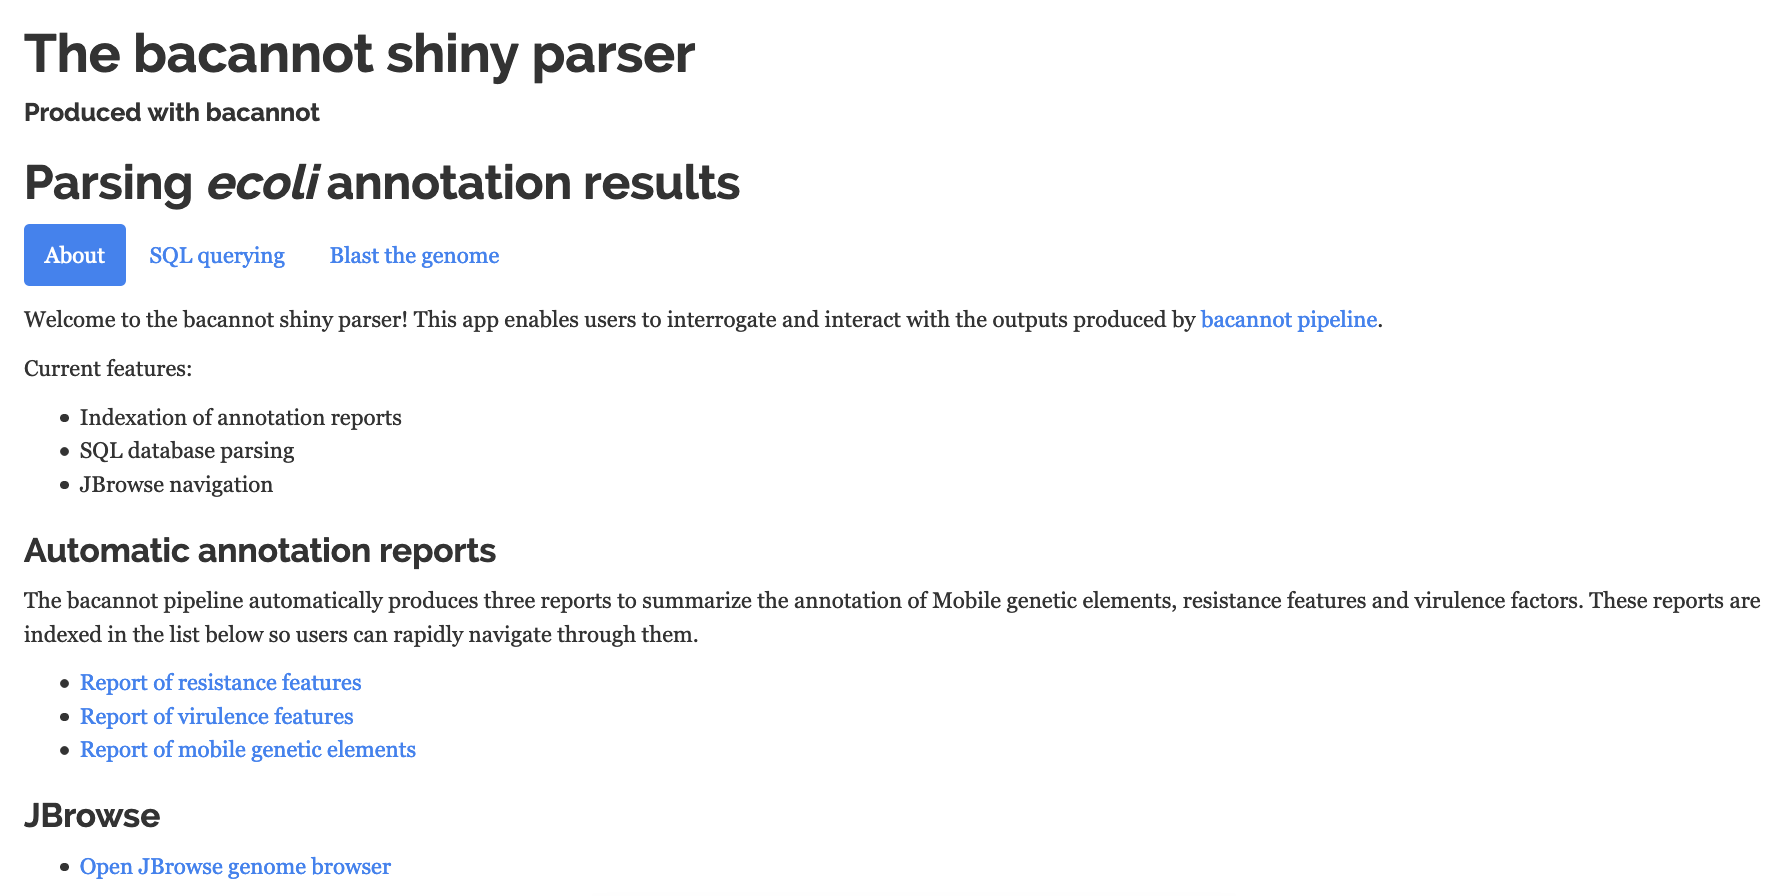
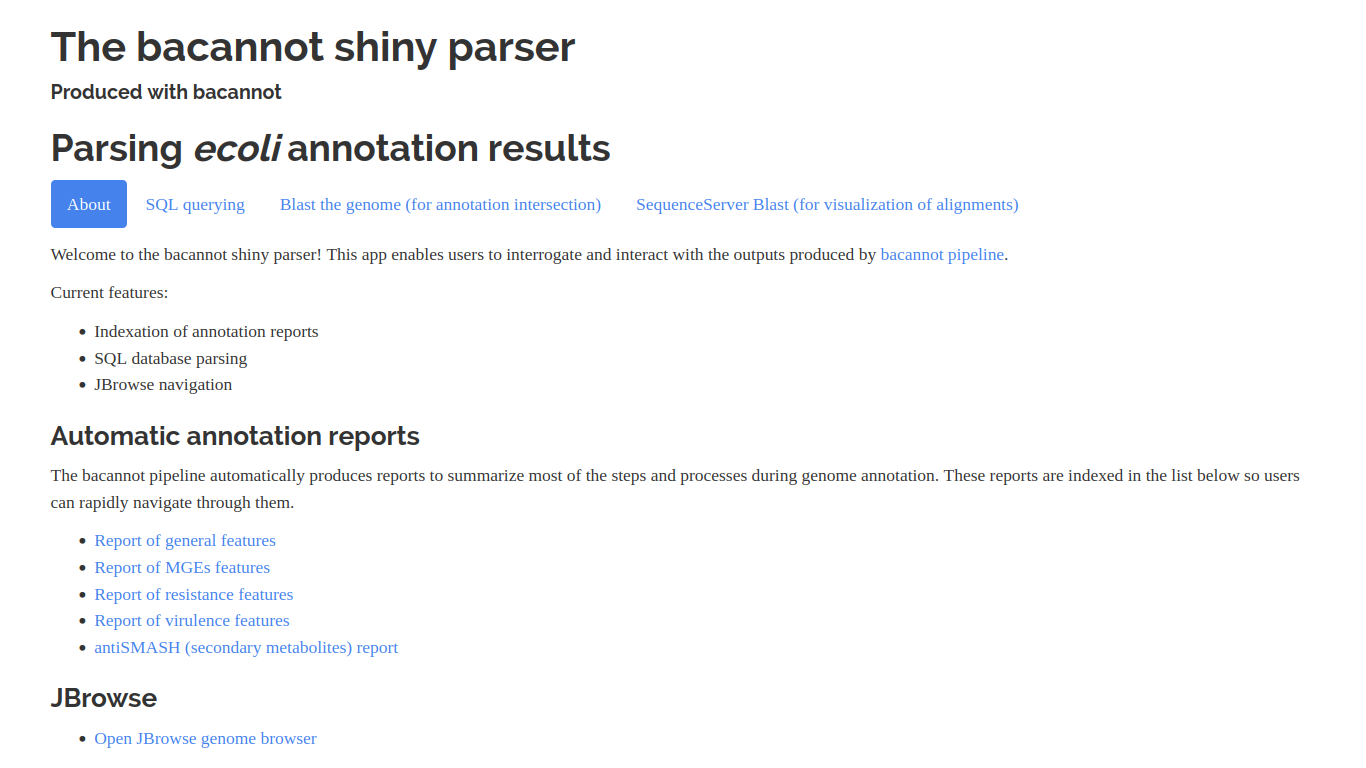
outputs page updated

Changed region(s): [[0.0, 0.0312, 1.0, 1.0], [0.4612, 0.25, 0.7379, 0.2812]]

diff --git a/docs/outputs.rst b/docs/outputs.rst
@@ -117,7 +117,7 @@ Bacannot shiny parser
 ---------------------
 
 .. image:: images/bacannot_shiny.gif
-  :width: 50%
+  :width: 70%
   :align: center
 
 The bacannot shiny server is basically a wrapper of the main outputs of the pipeline that is packed up in a docker image called ``fmalmeida/bacannot:server``.
@@ -165,12 +165,21 @@ In the second page, the sqlDB is used to provide a rapid and simple way to query
   :width: 800
   :align: center
 
-Server BLAST app
-^^^^^^^^^^^^^^^^
+Server BLAST (for intersection) app
+^^^^^^^^^^^^^^^^^^^^^^^^^^^^^^^^^^^
 
-In the last page, the server provides a simple way to BLAST the genome with new gene queries and to automatically identify intersections
+In the third page, the server provides a simple way to BLAST the genome with new gene queries and to automatically identify intersections
 between the blast results and the the main annotation.
 
 .. image:: images/bacannot_server_blast.png
+  :width: 800
+  :align: center
+
+Server BLAST (SequenceServer) app
+^^^^^^^^^^^^^^^^^^^^^^^^^^^^^^^^^
+
+In the last page, the server provides an implementation of SequenceServer which allows users to BLAST their samples and visualise the alignments produced.
+
+.. image:: images/bacannot_server_blast_sequenceserver.png
   :width: 800
   :align: center
